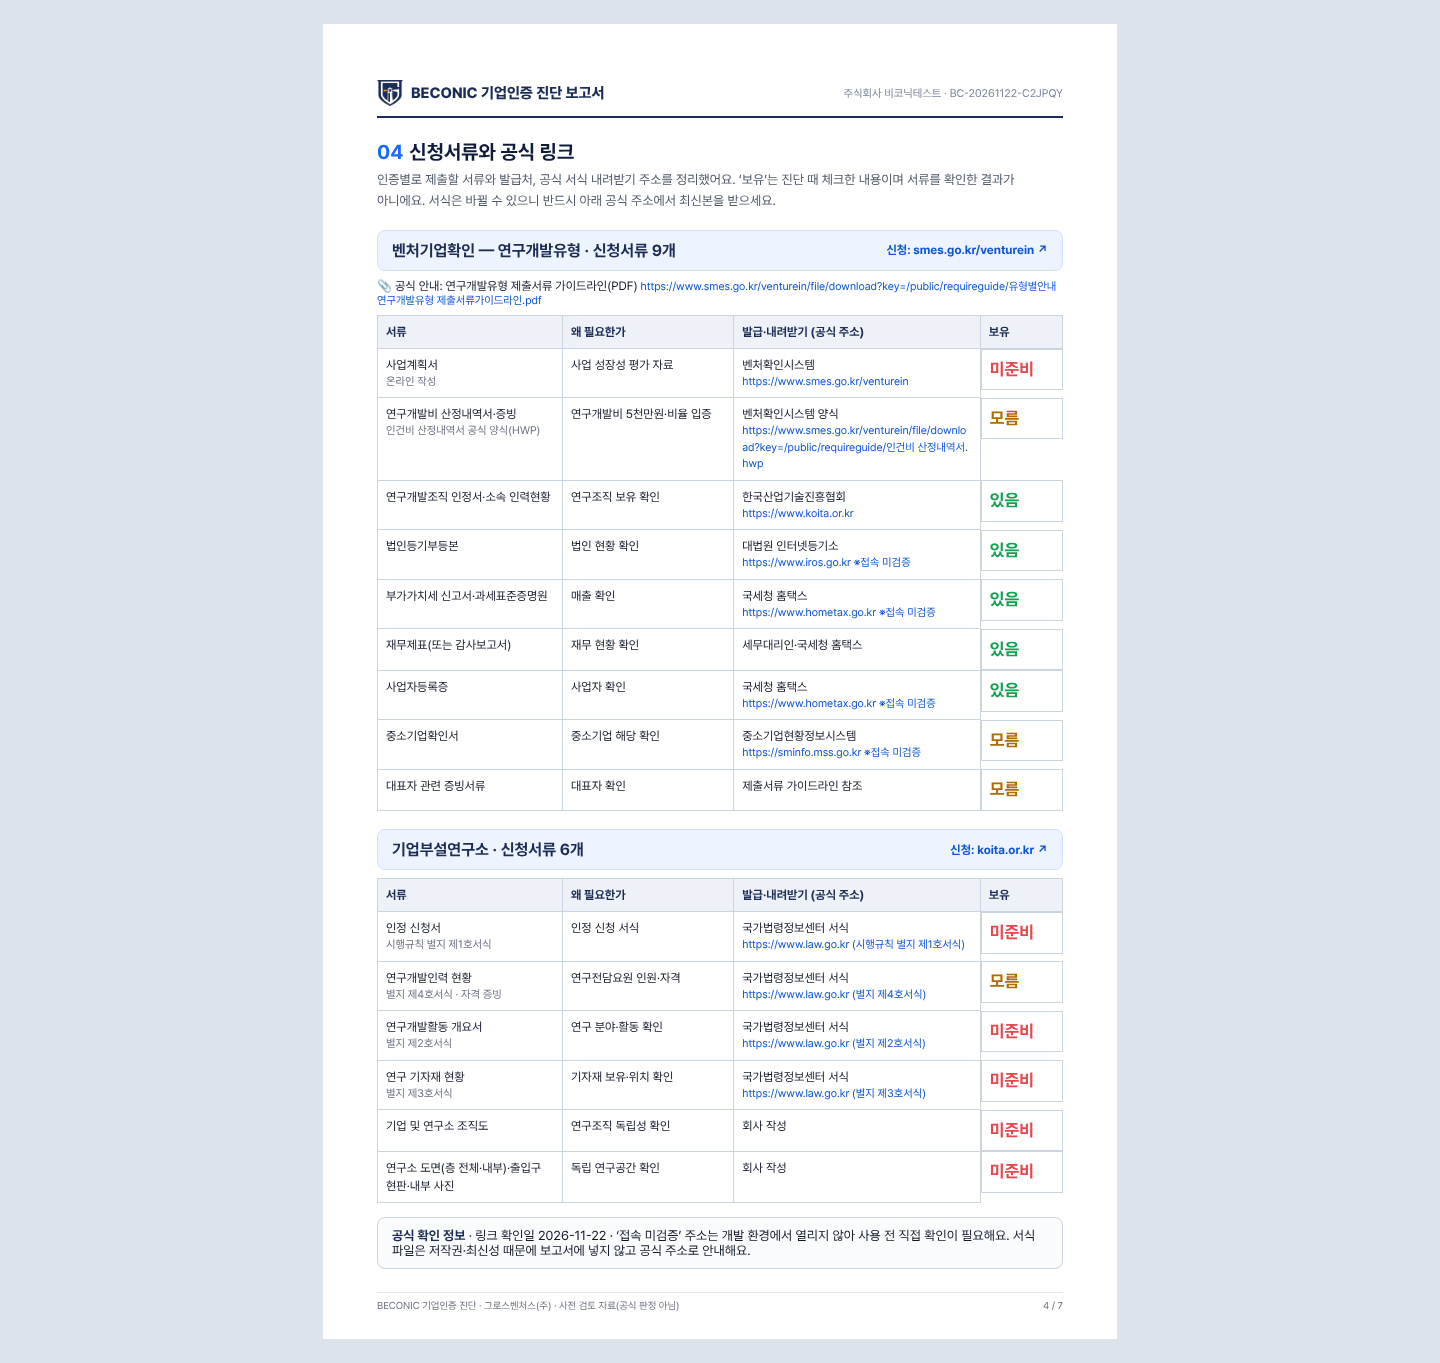
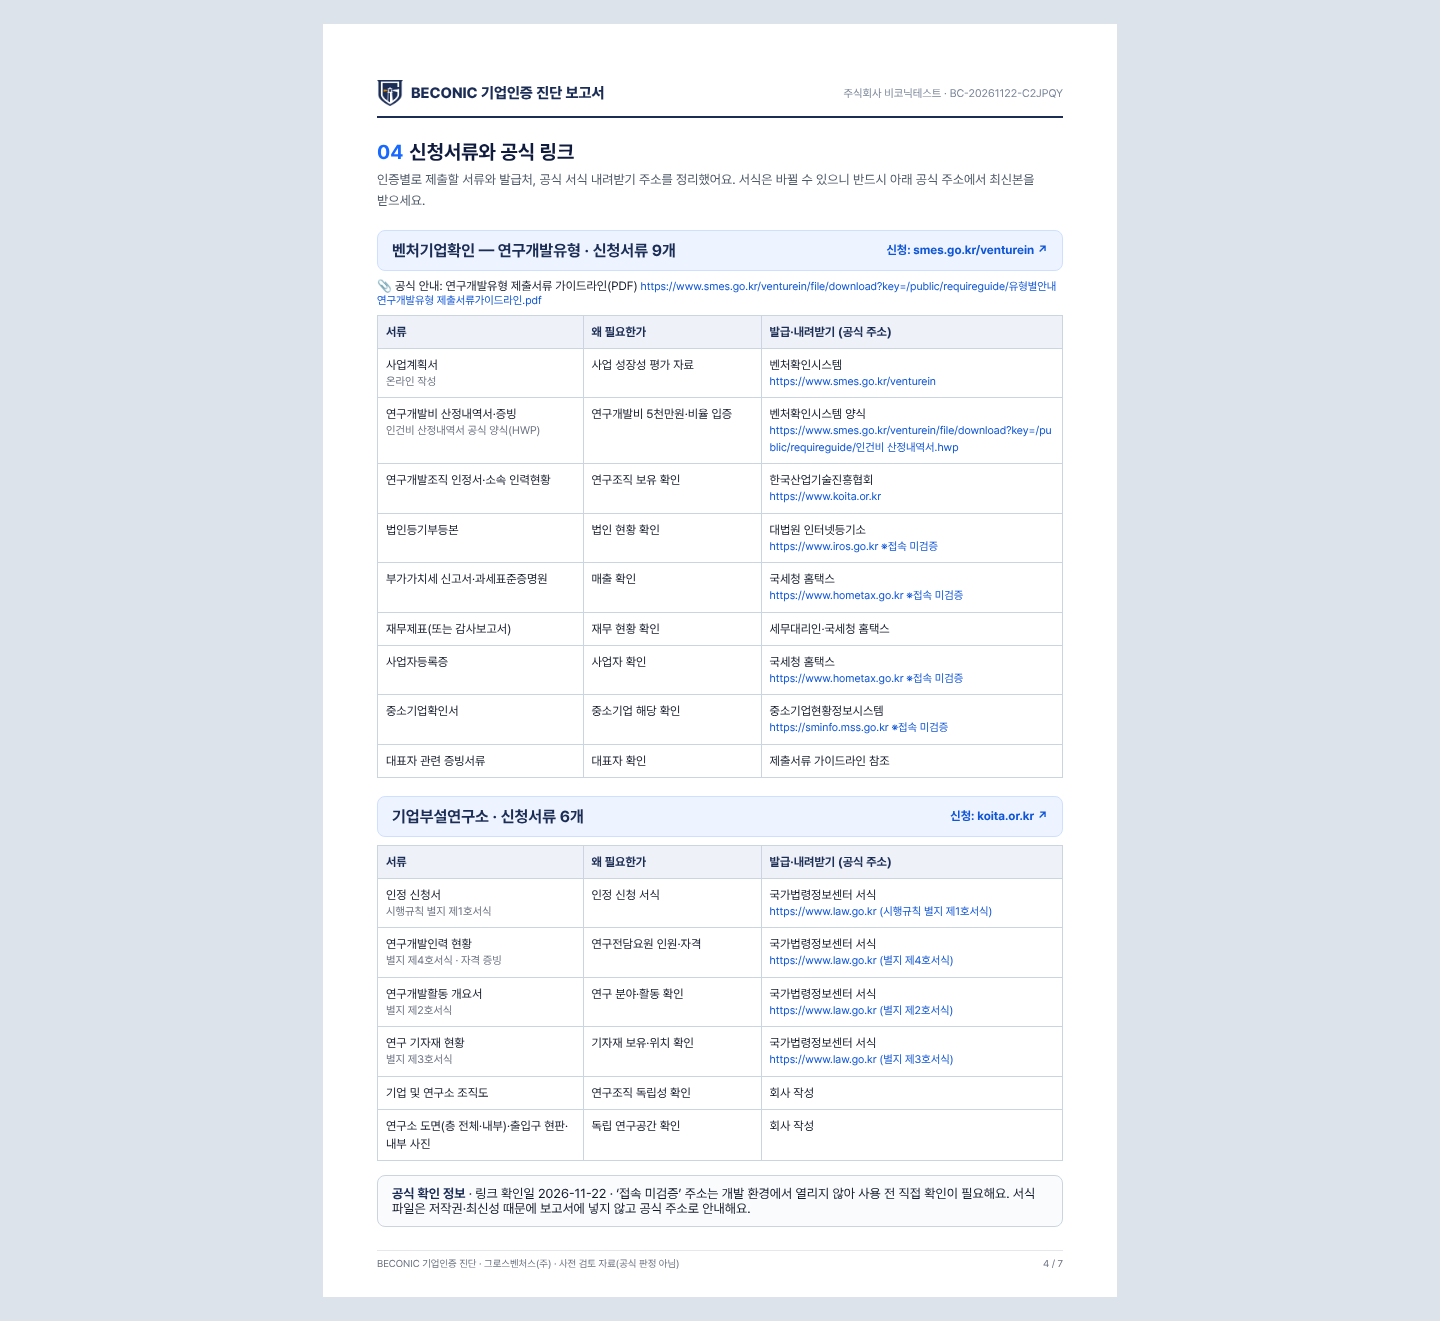
certification: v2 시안에서 서류 보유 여부 칸 삭제(대표 결정), PDF 표 열 너비 조정
Claude-Session: https://claude.ai/code/session_0161FRMYhw79SqdwWsvN2ipY

Changed region(s): [[0.25, 0.0621, 0.75, 0.9621]]

diff --git a/certification/docs/mockups/4-pdf.html b/certification/docs/mockups/4-pdf.html
@@ -18,32 +18,32 @@ th{background:#EEF2F8;color:var(--navy);font-weight:700}td small{display:block;c
 <div class="a4">
  <div class="ph"><div><img src="../../assets/growth-shield-symbol-navy.png" alt="">BECONIC 기업인증 진단 보고서</div><span>주식회사 비코닉테스트 · BC-20261122-C2JPQY</span></div>
  <h2><em>04</em>신청서류와 공식 링크</h2>
- <p class="lead2">인증별로 제출할 서류와 발급처, 공식 서식 내려받기 주소를 정리했어요. ‘보유’는 진단 때 체크한 내용이며 서류를 확인한 결과가 아니에요. 서식은 바뀔 수 있으니 반드시 아래 공식 주소에서 최신본을 받으세요.</p>
+ <p class="lead2">인증별로 제출할 서류와 발급처, 공식 서식 내려받기 주소를 정리했어요. 서식은 바뀔 수 있으니 반드시 아래 공식 주소에서 최신본을 받으세요.</p>
 
  <div class="cert"><b>벤처기업확인 — 연구개발유형 · 신청서류 9개</b><a>신청: smes.go.kr/venturein ↗</a></div>
  <p style="margin:0 0 8px;font-size:12px">📎 공식 안내: 연구개발유형 제출서류 가이드라인(PDF) <span class="url">https://www.smes.go.kr/venturein/file/download?key=/public/requireguide/유형별안내 연구개발유형 제출서류가이드라인.pdf</span></p>
- <table><colgroup><col style="width:27%"><col style="width:25%"><col style="width:36%"><col style="width:12%"></colgroup>
-  <thead><tr><th>서류</th><th>왜 필요한가</th><th>발급·내려받기 (공식 주소)</th><th>보유</th></tr></thead><tbody>
-  <tr><td>사업계획서<small>온라인 작성</small></td><td>사업 성장성 평가 자료</td><td>벤처확인시스템<div class="url">https://www.smes.go.kr/venturein</div></td><td class="st n">미준비</td></tr>
-  <tr><td>연구개발비 산정내역서·증빙<small>인건비 산정내역서 공식 양식(HWP)</small></td><td>연구개발비 5천만원·비율 입증</td><td>벤처확인시스템 양식<div class="url">https://www.smes.go.kr/venturein/file/download?key=/public/requireguide/인건비 산정내역서.hwp</div></td><td class="st u">모름</td></tr>
-  <tr><td>연구개발조직 인정서·소속 인력현황</td><td>연구조직 보유 확인</td><td>한국산업기술진흥협회<div class="url">https://www.koita.or.kr</div></td><td class="st y">있음</td></tr>
-  <tr><td>법인등기부등본</td><td>법인 현황 확인</td><td>대법원 인터넷등기소<div class="url">https://www.iros.go.kr ※접속 미검증</div></td><td class="st y">있음</td></tr>
-  <tr><td>부가가치세 신고서·과세표준증명원</td><td>매출 확인</td><td>국세청 홈택스<div class="url">https://www.hometax.go.kr ※접속 미검증</div></td><td class="st y">있음</td></tr>
-  <tr><td>재무제표(또는 감사보고서)</td><td>재무 현황 확인</td><td>세무대리인·국세청 홈택스</td><td class="st y">있음</td></tr>
-  <tr><td>사업자등록증</td><td>사업자 확인</td><td>국세청 홈택스<div class="url">https://www.hometax.go.kr ※접속 미검증</div></td><td class="st y">있음</td></tr>
-  <tr><td>중소기업확인서</td><td>중소기업 해당 확인</td><td>중소기업현황정보시스템<div class="url">https://sminfo.mss.go.kr ※접속 미검증</div></td><td class="st u">모름</td></tr>
-  <tr><td>대표자 관련 증빙서류</td><td>대표자 확인</td><td>제출서류 가이드라인 참조</td><td class="st u">모름</td></tr>
+ <table><colgroup><col style="width:30%"><col style="width:26%"><col style="width:44%"></colgroup>
+  <thead><tr><th>서류</th><th>왜 필요한가</th><th>발급·내려받기 (공식 주소)</th></tr></thead><tbody>
+  <tr><td>사업계획서<small>온라인 작성</small></td><td>사업 성장성 평가 자료</td><td>벤처확인시스템<div class="url">https://www.smes.go.kr/venturein</div></td></tr>
+  <tr><td>연구개발비 산정내역서·증빙<small>인건비 산정내역서 공식 양식(HWP)</small></td><td>연구개발비 5천만원·비율 입증</td><td>벤처확인시스템 양식<div class="url">https://www.smes.go.kr/venturein/file/download?key=/public/requireguide/인건비 산정내역서.hwp</div></td></tr>
+  <tr><td>연구개발조직 인정서·소속 인력현황</td><td>연구조직 보유 확인</td><td>한국산업기술진흥협회<div class="url">https://www.koita.or.kr</div></td></tr>
+  <tr><td>법인등기부등본</td><td>법인 현황 확인</td><td>대법원 인터넷등기소<div class="url">https://www.iros.go.kr ※접속 미검증</div></td></tr>
+  <tr><td>부가가치세 신고서·과세표준증명원</td><td>매출 확인</td><td>국세청 홈택스<div class="url">https://www.hometax.go.kr ※접속 미검증</div></td></tr>
+  <tr><td>재무제표(또는 감사보고서)</td><td>재무 현황 확인</td><td>세무대리인·국세청 홈택스</td></tr>
+  <tr><td>사업자등록증</td><td>사업자 확인</td><td>국세청 홈택스<div class="url">https://www.hometax.go.kr ※접속 미검증</div></td></tr>
+  <tr><td>중소기업확인서</td><td>중소기업 해당 확인</td><td>중소기업현황정보시스템<div class="url">https://sminfo.mss.go.kr ※접속 미검증</div></td></tr>
+  <tr><td>대표자 관련 증빙서류</td><td>대표자 확인</td><td>제출서류 가이드라인 참조</td></tr>
  </tbody></table>
 
  <div class="cert"><b>기업부설연구소 · 신청서류 6개</b><a>신청: koita.or.kr ↗</a></div>
- <table><colgroup><col style="width:27%"><col style="width:25%"><col style="width:36%"><col style="width:12%"></colgroup>
-  <thead><tr><th>서류</th><th>왜 필요한가</th><th>발급·내려받기 (공식 주소)</th><th>보유</th></tr></thead><tbody>
-  <tr><td>인정 신청서<small>시행규칙 별지 제1호서식</small></td><td>인정 신청 서식</td><td>국가법령정보센터 서식<div class="url">https://www.law.go.kr (시행규칙 별지 제1호서식)</div></td><td class="st n">미준비</td></tr>
-  <tr><td>연구개발인력 현황<small>별지 제4호서식 · 자격 증빙</small></td><td>연구전담요원 인원·자격</td><td>국가법령정보센터 서식<div class="url">https://www.law.go.kr (별지 제4호서식)</div></td><td class="st u">모름</td></tr>
-  <tr><td>연구개발활동 개요서<small>별지 제2호서식</small></td><td>연구 분야·활동 확인</td><td>국가법령정보센터 서식<div class="url">https://www.law.go.kr (별지 제2호서식)</div></td><td class="st n">미준비</td></tr>
-  <tr><td>연구 기자재 현황<small>별지 제3호서식</small></td><td>기자재 보유·위치 확인</td><td>국가법령정보센터 서식<div class="url">https://www.law.go.kr (별지 제3호서식)</div></td><td class="st n">미준비</td></tr>
-  <tr><td>기업 및 연구소 조직도</td><td>연구조직 독립성 확인</td><td>회사 작성</td><td class="st n">미준비</td></tr>
-  <tr><td>연구소 도면(층 전체·내부)·출입구 현판·내부 사진</td><td>독립 연구공간 확인</td><td>회사 작성</td><td class="st n">미준비</td></tr>
+ <table><colgroup><col style="width:30%"><col style="width:26%"><col style="width:44%"></colgroup>
+  <thead><tr><th>서류</th><th>왜 필요한가</th><th>발급·내려받기 (공식 주소)</th></tr></thead><tbody>
+  <tr><td>인정 신청서<small>시행규칙 별지 제1호서식</small></td><td>인정 신청 서식</td><td>국가법령정보센터 서식<div class="url">https://www.law.go.kr (시행규칙 별지 제1호서식)</div></td></tr>
+  <tr><td>연구개발인력 현황<small>별지 제4호서식 · 자격 증빙</small></td><td>연구전담요원 인원·자격</td><td>국가법령정보센터 서식<div class="url">https://www.law.go.kr (별지 제4호서식)</div></td></tr>
+  <tr><td>연구개발활동 개요서<small>별지 제2호서식</small></td><td>연구 분야·활동 확인</td><td>국가법령정보센터 서식<div class="url">https://www.law.go.kr (별지 제2호서식)</div></td></tr>
+  <tr><td>연구 기자재 현황<small>별지 제3호서식</small></td><td>기자재 보유·위치 확인</td><td>국가법령정보센터 서식<div class="url">https://www.law.go.kr (별지 제3호서식)</div></td></tr>
+  <tr><td>기업 및 연구소 조직도</td><td>연구조직 독립성 확인</td><td>회사 작성</td></tr>
+  <tr><td>연구소 도면(층 전체·내부)·출입구 현판·내부 사진</td><td>독립 연구공간 확인</td><td>회사 작성</td></tr>
  </tbody></table>
 
  <div class="box"><b>공식 확인 정보</b> · 링크 확인일 2026-11-22 · ‘접속 미검증’ 주소는 개발 환경에서 열리지 않아 사용 전 직접 확인이 필요해요. 서식 파일은 저작권·최신성 때문에 보고서에 넣지 않고 공식 주소로 안내해요.</div>

diff --git a/certification/docs/mockups/3-result.html b/certification/docs/mockups/3-result.html
@@ -23,15 +23,15 @@
         </ul>
         <h3 style="margin:24px 0 8px;font-size:18px">신청서류 9개 <span class="note" style="font-weight:500">(‘신청서류’ 탭을 눌렀을 때 보이는 내용)</span></h3>
         <p class="note" style="margin:0 0 8px">📎 공식 안내: <a style="color:var(--pd);font-weight:700">연구개발유형 제출서류 가이드라인(PDF) ↗</a> · 확인 2026-11-22</p>
-        <table class="dt"><thead><tr><th>서류</th><th>발급·다운로드</th><th>보유</th></tr></thead><tbody>
-          <tr><td><b>사업계획서</b><small>벤처확인시스템에서 온라인 작성</small></td><td><a>벤처확인시스템 ↗</a></td><td><span class="badge i">미준비</span></td></tr>
-          <tr><td><b>연구개발비 산정내역서·증빙</b><small>인건비 산정내역서 공식 양식(HWP)</small></td><td><a>양식 내려받기 ↗</a></td><td><span class="badge wq">모름</span></td></tr>
-          <tr><td><b>연구개발조직 인정서·소속 인력현황</b></td><td><a>한국산업기술진흥협회 ↗</a></td><td><span class="badge ok">있음</span></td></tr>
-          <tr><td><b>법인등기부등본</b></td><td><a>대법원 인터넷등기소 ↗</a></td><td><span class="badge ok">있음</span></td></tr>
-          <tr><td><b>부가가치세 신고서·과세표준증명원</b></td><td><a>홈택스 ↗</a></td><td><span class="badge ok">있음</span></td></tr>
-          <tr><td colspan="3" style="text-align:center;color:var(--pd);font-weight:700">+ 4개 더 보기 (사업자등록증·중소기업확인서·재무제표·대표자 관련 증빙)</td></tr>
+        <table class="dt"><thead><tr><th>서류</th><th>발급·다운로드</th></tr></thead><tbody>
+          <tr><td><b>사업계획서</b><small>벤처확인시스템에서 온라인 작성</small></td><td><a>벤처확인시스템 ↗</a></td></tr>
+          <tr><td><b>연구개발비 산정내역서·증빙</b><small>인건비 산정내역서 공식 양식(HWP)</small></td><td><a>양식 내려받기 ↗</a></td></tr>
+          <tr><td><b>연구개발조직 인정서·소속 인력현황</b></td><td><a>한국산업기술진흥협회 ↗</a></td></tr>
+          <tr><td><b>법인등기부등본</b></td><td><a>대법원 인터넷등기소 ↗</a></td></tr>
+          <tr><td><b>부가가치세 신고서·과세표준증명원</b></td><td><a>홈택스 ↗</a></td></tr>
+          <tr><td colspan="2" style="text-align:center;color:var(--pd);font-weight:700">+ 4개 더 보기 (사업자등록증·중소기업확인서·재무제표·대표자 관련 증빙)</td></tr>
         </tbody></table>
-        <p class="note" style="margin-top:10px">‘있음’은 고객이 체크한 내용이며 서류를 확인한 결과가 아니에요. 서식은 공식 사이트에서 최신본을 내려받도록 링크만 제공해요(파일 재배포 없음).</p>
+        <p class="note" style="margin-top:10px">서식은 공식 사이트에서 최신본을 내려받도록 링크만 제공해요(파일 재배포 없음).</p>
       </article>
       <article class="rc">
         <div class="rc-h"><div><span class="badge wq">? 확인 필요 2개</span><div class="tt">이노비즈</div><div class="sub">업력·중소기업 요건 충족 · 확인 2개 (이 중 1개는 공식 원문 미확보)</div></div></div>

diff --git a/certification/docs/UX_REDTEAM_REVIEW.md b/certification/docs/UX_REDTEAM_REVIEW.md
@@ -21,7 +21,8 @@
 | 13 | 쉽게 | 모바일 가로 넘침(445px), 하단 바 버튼 중복 | 사용 불편 | 수정(390px 맞춤, 버튼 1개) |
 
 ## 2. 신청서류·공식 링크 (요청 1)
-- 화면 '신청서류' 탭 + PDF '04 신청서류와 공식 링크' 쪽: **서류 · 왜 필요한가 · 발급·내려받기 공식 주소 · 보유(자가응답)**
+- 화면 '신청서류' 탭 + PDF '04 신청서류와 공식 링크' 쪽: **서류 · 왜 필요한가 · 발급·내려받기 공식 주소**
+- **서류 보유 여부(있음·없음·모름) 칸은 삭제**(2026-11-23 대표 결정): 고객 자가응답이라 판정·준비도에 의미가 없고 화면만 길어짐. v1의 '서류 체크' 화면과 결과 요약의 '증빙 N개 중 M개 있음'도 v2에서 제거하고, 요약 칸은 '신청서류 N개'만 표시
 - 공식 서식은 **링크로 제공**(파일 재배포 안 함 — 서식 개정 시 낡은 파일이 퍼지는 위험, 저작권)
 - 확인한 공식 내려받기: 벤처 유형별 제출서류 가이드라인 PDF 4종·인건비 산정내역서 양식(HWP), 이노비즈 제출서류 가이드라인 PDF, 연구소 신청 서식(시행규칙 별지)
 - 이 개발 환경에서 열리지 않은 발급처(홈택스·인터넷등기소·4대보험)는 **'접속 미검증'** 표시 → 배포 전 대표님 브라우저 확인 1회
